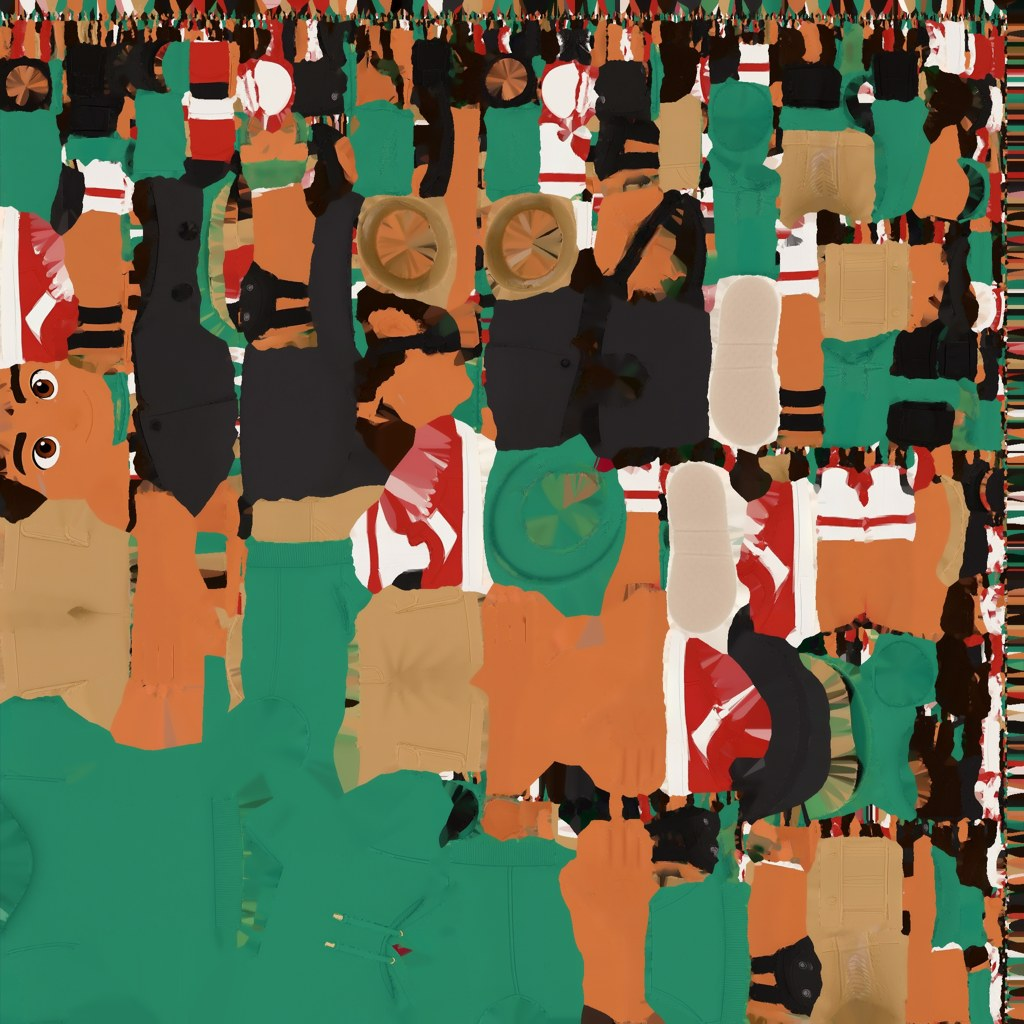
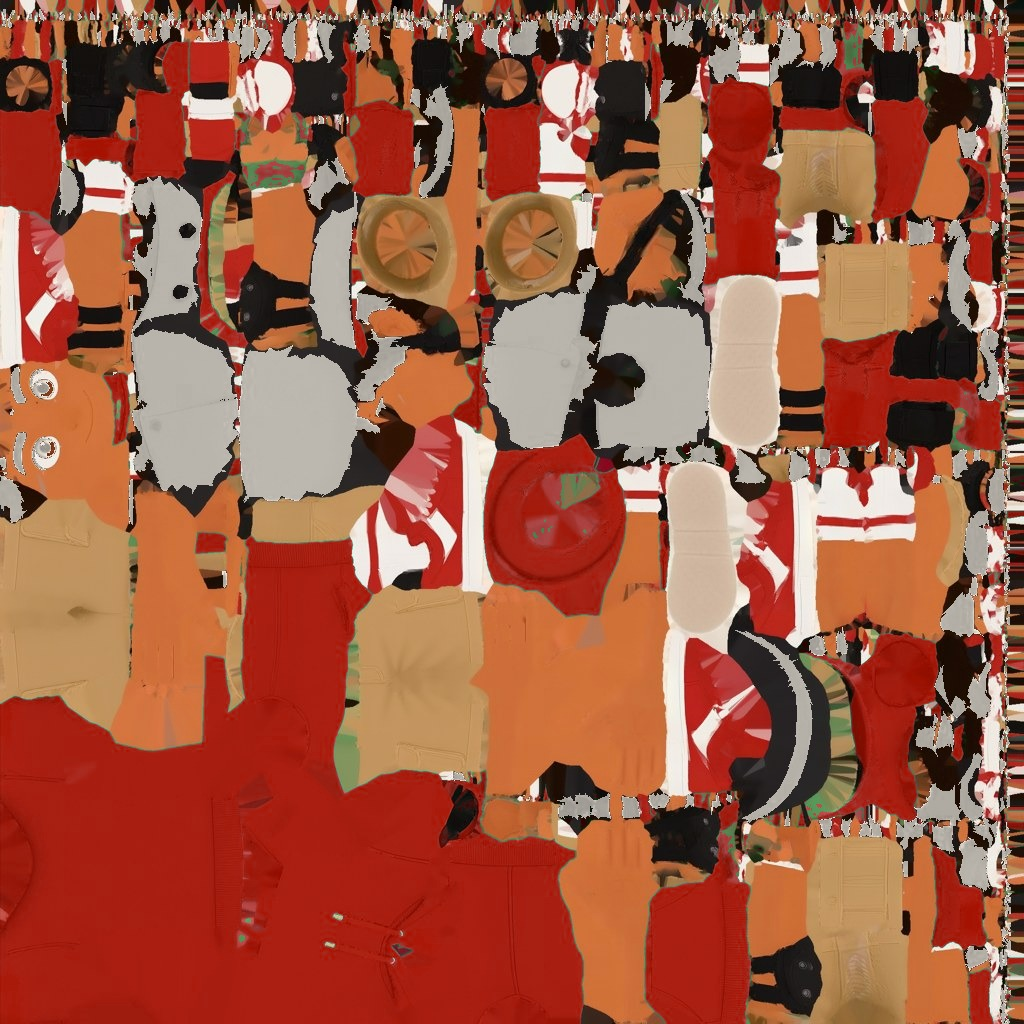
Hill Bomb: dusk-neon repalette, functional colour code, bigger character
PALETTE. Replaces the pastel sand-and-lilac sunset, on legibility grounds
before taste. Every element had sat inside a 62-point band at the very top
of a 0..255 luminance scale, and the sky was actually DARKER than the
playfield:

                    ground  marks  sky   marks-vs-ground  sky-vs-ground
    pastel sunset     205    248   188         43              -17
    dusk neon          46    193   129        147              +83

That negative number is the heart of it -- backdrop and playfield merged
rather than separating. It explains a run of problems already worked
around: speed lines invisible until widened and darkened, additive sparks
blowing out to white, guide stripes lost in the sand. It is also the wrong
register for 8-12s, who read pastel dusk as calm and pretty -- an odd thing
to feel while bombing a hill at 90 km/h.

The repalette paid for itself immediately: sparks and speed lines are back
on ADDITIVE blending. Both had been forced onto ordinary alpha because
additive only reads as glow over a dark background. They emit light now
instead of painting it.

Sky was repainted rather than recoloured -- edited from the existing matte
so the approved composition carried over exactly, with the ribbon roads
becoming glowing cyan neon and the clouds magenta-lit against indigo. Seam
re-healed (4.23 -> 1.37), and SKY_TOP/SKY_BOTTOM/FOG_COLOR are sampled from
the painting's own bands so the trough fades INTO the art.
[…]

diff --git a/HillBombSunsetRidge/src/data/constants.js b/HillBombSunsetRidge/src/data/constants.js
@@ -385,34 +385,106 @@ export const LAND_AMOUNT_PLAIN = 0.42; // a bare ollie or a small ramp pop
 // Per Amit's direct direction, this REPLACES the build doc's §5.2 orbiting
 // "trick swing" camera. No orbit, no roll, no FOV pumping -- a stable
 // over-the-shoulder rig that stays put. See camera/cameraRig.js's header.
-export const CAM_BACK = 4.1; // follow distance behind the rider
-export const CAM_HEIGHT = 1.85;
-export const CAM_SHOULDER = 0.85; // over-the-shoulder lateral offset (the Fortnite tell)
-export const CAM_LOOK_AHEAD = 11.0; // how far down-road the camera aims
+// --- LENS ---------------------------------------------------------------
+// Amit: a longer camera length, with the character always bigger in frame --
+// what the team called "more isometric feeling". That reading is right: a long
+// lens is exactly what produces it. Narrowing the FOV compresses depth, so the
+// trough walls and the matte painting flatten toward parallel instead of
+// racing to a vanishing point, and the rider stops being distorted by
+// wide-angle perspective.
+//
+// MEASURED before and after, since apparent size is 1/(distance x tan(fov/2))
+// and moving either one alone gets it wrong:
+//     before   fov 66 at speed, 5.69 away  ->  rider 32.5% of frame height,
+//              108.5 degrees horizontal -- practically fisheye
+//     after    fov 44 at speed, ~6.6 away  ->  rider ~45% of frame height,
+//              ~82 degrees horizontal
+// So the camera moves BACK and the rider still ends up much larger: that gap is
+// the lens doing the work rather than the dolly.
+// Pulled in for a further +20% on-screen character size. Done as DISTANCE, not
+// more lens: apparent size is 1/(distance x tan(fov/2)), and narrowing the FOV
+// again would drop the horizontal field below the 81.6 degrees the long-lens
+// pass already traded down to, costing reaction time on wide-placed props.
+// Distance is the free lever here; focal length is not.
+export const CAM_BACK = 3.80; // follow distance behind the rider
+// Lowered with the lens. How far below frame-centre the rider sits is set by
+// the height:distance ratio -- atan(CAM_HEIGHT / follow distance) -- and a
+// narrow FOV magnifies that same angle into a much larger slice of the frame.
+// At 1.85 he sat at -0.47 NDC and spilled off the bottom edge once he was big
+// enough to be worth looking at.
+// Lowered again with the closer camera. How far below frame-centre the rider
+// sits is atan(CAM_HEIGHT / distance), so pulling IN without dropping the
+// camera pushes him toward the bottom edge -- at 1.42 and this distance he
+// started clipping it. Dropping the height buys that margin back and costs no
+// on-screen size at all, which pure pull-back would.
+export const CAM_HEIGHT = 1.15;
+// Over-the-shoulder lateral offset (the Fortnite tell). Scaled down with the
+// lens: this is a fixed WORLD offset, so a narrower FOV turns the same 0.85
+// into a much larger share of the frame -- it pushed the rider to -0.38 NDC,
+// well left of centre, once the lens went long. 0.55 restores roughly the
+// original on-screen offset.
+export const CAM_SHOULDER = 0.55;
+// Pulled in with the lens. The rider sits below centre by however far the aim
+// point leads him, and a narrow FOV magnifies that same angular offset into a
+// much bigger slice of the frame -- at 11.0 he sank toward the bottom edge.
+export const CAM_LOOK_AHEAD = 7.0; // how far down-road the camera aims
 export const CAM_LOOK_HEIGHT = 1.35;
-export const CAM_LERP = 6.0; // base follow easing (per second)
+// Follow easing. Raised from 6.0, because at 6.0 the STEADY-STATE trail is
+// speed/CAM_LERP -- 5.8 units at 34.6 u/s, nearly as much again as the rig's
+// own 6.3 -- so the real follow distance was 12.1 and, worse, it GREW with
+// speed: the character shrank exactly when the game got fast. Amit asked for
+// him to be bigger in frame *always*, which means the distance has to be set by
+// the rig rather than by how far the lerp happens to be losing. At 14 the trail
+// is 2.5 units and roughly constant across the speeds the game actually uses.
+// Carve still adds its own lag via CAM_LAG_AT_FULL_CARVE, so the rider keeps
+// leading the frame through a turn.
+export const CAM_LERP = 14.0; // base follow easing (per second)
 export const CAM_LAG_AT_FULL_CARVE = 0.35; // eases slower at full carve so the
 // rider leads the frame through a turn -- without the camera leaving its rig.
-export const FOV_BASE = 58;
-export const FOV_AT_SPEED = 66; // only a slight breathe with speed, not a pump
-export const CAM_PULLBACK = 1.2; // modest extra distance at top speed
+export const FOV_BASE = 39;
+export const FOV_AT_SPEED = 44; // only a slight breathe with speed, not a pump
+export const CAM_PULLBACK = 0.8; // modest extra distance at top speed
 
 // --- world look (placeholder, deliberately flat) ---
 // NOTE: real illustrated Kolbo textures are a hard requirement for the actual
 // game (build doc §0's environment-art correction). This harness is explicitly
 // the "very basic environment" case -- flat colors here are a stand-in so the
 // comparison isolates the RIDER layer, and must not be taken as the art plan.
-export const SKY_TOP = 0xc3b2dc;
-export const SKY_BOTTOM = 0xf7d3bf;
-export const FOG_COLOR = 0xecd9dd;
+// --- PALETTE: DUSK NEON -----------------------------------------------------
+// Replaces the pastel sand-and-lilac sunset. That palette had a measured
+// problem, not just a taste one -- every element sat inside a 62-point band at
+// the very top of a 0..255 luminance scale, and the sky was actually DARKER
+// than the playfield:
+//
+//                       ground  markings  sky   marks-vs-ground  sky-vs-ground
+//     pastel sunset      205      248     188         43              -17
+//     dusk neon (this)    46      193     129        147               83
+//
+// The negative number is the heart of it: backdrop and playfield merged instead
+// of separating. Everything downstream suffered -- the speed lines were
+// invisible until widened and darkened, additive sparks blew out to white, the
+// guide stripes got lost in the sand. Flipping the playfield dark fixes all of
+// them at once and gives the VFX somewhere to glow.
+//
+// It is also simply the right register for the audience: 8-12 year olds read
+// pastel dusk as calm and pretty, which is a strange thing to feel while
+// bombing a hill at 90 km/h.
+//
+// The ground is 0x2f2763 rather than the 0x272052 of the prototype -- lifted a
+// step on purpose. The darker value tested better on a monitor but risks
+// crushing on a board-mounted screen in a lit room, and the lift costs almost
+// nothing in contrast while giving the eventual surface texture room to read.
+export const SKY_TOP = 0x160e47; // sampled from the matte's own top band
+export const SKY_BOTTOM = 0x401a5f; // ...and its bottom band
+export const FOG_COLOR = 0x5b3070; // the painting's horizon band: the trough now fades INTO the sky art rather than into an invented colour
 export const FOG_NEAR = 90;
 export const FOG_FAR = 340;
-export const TROUGH_COLOR = 0xdfcbaa; // warm sand wall (concept-02) // pale lilac concrete, pastel-sky palette
-export const TROUGH_FLOOR_COLOR = 0xfffaf0; // near-white dashed centre line // brighter stripe marking the fast line
-export const LIP_COLOR = 0x6f7a83; // DARK slate coping -- a value break against the pale wall // glowing coping at the top of the wall
-export const ROAD_COLOR = 0x6f6257;
-export const LINE_COLOR = 0xf2c14a;
-export const SHOULDER_COLOR = 0x9c8f6a;
+export const TROUGH_COLOR = 0x2f2763; // deep indigo playfield -- the value flip
+export const TROUGH_FLOOR_COLOR = 0x4ff0ff; // hot cyan dashed centre line
+export const LIP_COLOR = 0xff3ea5; // hot magenta coping: the loudest value break in frame
+export const ROAD_COLOR = 0x241d4e;
+export const LINE_COLOR = 0x4ff0ff;
+export const SHOULDER_COLOR = 0x4a3f8c;
 // Ground either side of the road. Must read as LAND, not sky: the first pass
 // used a pale sand (0xd8b98a) that was within a few percent of FOG_COLOR, so
 // wherever the road curved away the terrain beside it looked like empty sky and
@@ -421,8 +493,8 @@ export const SHOULDER_COLOR = 0x9c8f6a;
 // Placeholder sky until the phase-3 matte painting. Pastel, per the chosen
 // dreamlike sky-city direction -- the previous sage green read as GRASS above
 // the lips, which made the trough look like a ditch in a field.
-export const TERRAIN_COLOR = 0xefdce0;
-export const RAIL_COLOR = 0xbfb4a4;
+export const TERRAIN_COLOR = 0x3b2f72;
+export const RAIL_COLOR = 0x5cff9e;
 
 // --- funnels: the trough pinching to a throat and flaring open again ---
 // The set-piece from concept-01, and the cheapest possible proof that connected
@@ -471,7 +543,7 @@ export const GUIDE_STRIPES = [
   { theta: 0.62, halfWidth: 0.018 },
   { theta: 0.98, halfWidth: 0.018 },
 ];
-export const GUIDE_COLOR = 0xfdf8ee; // road markings, near-white
+export const GUIDE_COLOR = 0x76dcff; // road markings -- cyan on indigo
 
 // --- SPEED LINES -----------------------------------------------------------
 // Streaks rushing past the camera (entities/speedLines.js), driven by the SPEED
@@ -492,4 +564,12 @@ export const GUIDE_COLOR = 0xfdf8ee; // road markings, near-white
 // solid starburst that buried the rider and the road rather than as motion. The
 // point is to feel fast, not to obscure the thing you're steering.
 export const SPEEDLINE_MAX = 85;
-export const SPEEDLINE_COLOR = 0xfdf8ee; // same near-white as the road markings
+export const SPEEDLINE_COLOR = 0x9fe9ff; // pale cyan -- finally glows against a dark playfield
+
+// --- RIDER RIM LIGHT --------------------------------------------------------
+// A bright fresnel edge on the character so his silhouette separates from the
+// background regardless of palette. Cool white with a cyan bias, so it reads as
+// the scene's own neon bouncing off him rather than as an arbitrary outline.
+export const RIM_COLOR = 0xa8ecff;
+export const RIM_STRENGTH = 0.55;
+export const RIM_POWER = 2.2; // higher = tighter edge, less wash over the body

diff --git a/HillBombSunsetRidge/src/entities/rider.js b/HillBombSunsetRidge/src/entities/rider.js
@@ -47,6 +47,7 @@ import {
   LAND_HIP_BEND, LAND_KNEE_BEND, LAND_SPINE_CURL,
   GRIND_YAW, GRIND_HIP_BEND, GRIND_KNEE_BEND,
   GRIND_ARM_SPREAD, GRIND_ELBOW_OPEN, GRIND_PUSH_LOCKOUT,
+  RIM_COLOR, RIM_STRENGTH, RIM_POWER,
 } from '../data/constants.js';
 
 const RIDER_HEIGHT = 1.85;
@@ -158,8 +159,14 @@ export function createRider(scene, camera) {
   // demonstrates the build doc's §9.1 rule that things the rider physically
   // rides on are real geometry, not billboards.
   const board = new THREE.Group();
-  const deckMat = new THREE.MeshBasicMaterial({ color: 0x3b2f28 });
-  const wheelMat = new THREE.MeshBasicMaterial({ color: 0xe8d9c0 });
+  // Deck and wheels, lifted off near-black for the dusk-neon palette. The deck
+  // was 0x3b2f28 -- luminance 50 against a playfield at 46, so a broad flat
+  // plank directly under the rider was rendering as a hole in the frame. Warm
+  // maple reads as an actual skateboard and separates cleanly from the indigo
+  // without borrowing a hue that already means something (cyan paint, green
+  // rail, magenta boundary, violet launcher, yellow hazard).
+  const deckMat = new THREE.MeshBasicMaterial({ color: 0xd9a86a });
+  const wheelMat = new THREE.MeshBasicMaterial({ color: 0xfff0d8 });
   board.add(new THREE.Mesh(new THREE.BoxGeometry(0.62, 0.08, 2.15), deckMat));
   for (const dx of [-0.26, 0.26]) {
     for (const dz of [-0.72, 0.72]) {
@@ -320,6 +327,42 @@ export function createRider(scene, camera) {
             metalness: 0.35, roughness: 0.75,
           });
           const unlit = new THREE.MeshBasicMaterial({ map: base });
+          // RIM LIGHT. Recolouring the hoodie scarlet fixed the character's HUE
+          // separation from the indigo ground (87 -> 115 degrees) but actually
+          // cost value contrast: red is darker than the green it replaced, so
+          // the luminance gap fell from 63 to 44. Hue reads fine on a monitor;
+          // on a dim board-mounted screen value is the more reliable cue, and
+          // that is exactly where a character can get lost.
+          //
+          // A fresnel rim solves it independently of palette: a bright edge
+          // wherever the surface turns away from the viewer, so the silhouette
+          // separates from ANY background, including future ones. Injected into
+          // MeshBasicMaterial rather than switching to a lit material, because
+          // the whole art direction is unlit and a real light would flatten the
+          // hand-painted texture.
+          //
+          // three only computes normals in the basic shader when USE_ENVMAP or
+          // USE_SKINNING is defined -- this rig is skinned, so transformedNormal
+          // is genuinely available here. It would NOT be on an unskinned mesh.
+          unlit.onBeforeCompile = (shader) => {
+            shader.uniforms.uRimColor = { value: new THREE.Color(RIM_COLOR) };
+            shader.uniforms.uRimStrength = { value: RIM_STRENGTH };
+            shader.uniforms.uRimPower = { value: RIM_POWER };
+            shader.vertexShader = shader.vertexShader
+              .replace('void main() {', 'varying vec3 vRimN;\nvarying vec3 vRimV;\nvoid main() {')
+              .replace('#include <project_vertex>',
+                '#include <project_vertex>\n\tvRimN = transformedNormal;\n\tvRimV = -mvPosition.xyz;');
+            shader.fragmentShader = shader.fragmentShader
+              .replace('void main() {',
+                'uniform vec3 uRimColor;\nuniform float uRimStrength;\nuniform float uRimPower;\n'
+                + 'varying vec3 vRimN;\nvarying vec3 vRimV;\nvoid main() {')
+              .replace('#include <dithering_fragment>',
+                '#include <dithering_fragment>\n'
+                // abs() so back-facing normals rim too -- without it, whichever
+                // side of him faces away from the camera loses its edge.
+                + '\tfloat rim = pow(1.0 - abs(dot(normalize(vRimN), normalize(vRimV))), uRimPower);\n'
+                + '\tgl_FragColor.rgb += uRimColor * rim * uRimStrength;');
+          };
           rigLitMats.push(lit);
           rigUnlitMats.push(unlit);
           n.material = unlit;

diff --git a/HillBombSunsetRidge/src/data/propTypes.js b/HillBombSunsetRidge/src/data/propTypes.js
@@ -22,16 +22,16 @@ export const PROP_TYPES = {
     kind: 'launch',
     // A wedge: low at the near edge, rising toward the rider's direction.
     size: { w: 4.2, h: 0.95, l: 3.4 },
-    colour: 0xb2763f,
-    accent: 0x8a5a2e,
+    colour: 0x6c3fd8,
+    accent: 0x4223a2,
     launch: { power: 1.0, points: 120, profile: 'wedge' },
     label: 'KICKER',
   },
   bigKicker: {
     kind: 'launch',
     size: { w: 5.6, h: 1.6, l: 5.0 },
-    colour: 0xc08347,
-    accent: 0x92602f,
+    colour: 0x8a4fe8,
+    accent: 0x5427b6,
     launch: { power: 1.5, points: 260, profile: 'wedge' },
     label: 'BIG AIR',
   },
@@ -40,34 +40,40 @@ export const PROP_TYPES = {
     // Wide, shallow quarter-pipe style bank -- a gentler launch, and forgiving
     // because it's wide enough that you don't have to aim.
     size: { w: 9.0, h: 1.2, l: 6.0 },
-    colour: 0x9aa3ad,
-    accent: 0x7c848d,
+    colour: 0x35538f,
+    accent: 0x27406f,
     launch: { power: 1.2, points: 150, profile: 'hump' },
     label: 'BANK',
   },
 
   // --- grindables --------------------------------------------------------
+  // SPRING GREEN, and deliberately its own hue. These were cyan -- the exact
+  // colour of the painted guide stripes -- so a solid object you ride and a
+  // marking you're meant to ignore looked identical at a glance. Hue here
+  // carries FUNCTION, not mood: indigo ground, cyan paint, magenta boundary,
+  // violet launcher, yellow hazard, green grindable. Green also reads as
+  // "positive, go for it", which is what a rail is.
   rail: {
     kind: 'grind',
     size: { w: 0.16, h: 0.52, l: 16 },
-    colour: 0xd9d2c4,
-    accent: 0x8e887c,
+    colour: 0x5cff9e,
+    accent: 0x1f8f52,
     grind: { pointsPerSecond: 260, catchWidth: 1.5 },
     label: 'RAIL',
   },
   longRail: {
     kind: 'grind',
     size: { w: 0.16, h: 0.58, l: 28 },
-    colour: 0xe4dccd,
-    accent: 0x8e887c,
+    colour: 0x5cff9e,
+    accent: 0x1f8f52,
     grind: { pointsPerSecond: 320, catchWidth: 1.5 },
     label: 'LONG RAIL',
   },
   ledge: {
     kind: 'grind',
     size: { w: 1.5, h: 0.62, l: 14 },
-    colour: 0xbfb3a0,
-    accent: 0x958a79,
+    colour: 0x4ae08a,
+    accent: 0x1a7a48,
     grind: { pointsPerSecond: 220, catchWidth: 1.9 },
     label: 'LEDGE',
   },
@@ -76,24 +82,24 @@ export const PROP_TYPES = {
   cone: {
     kind: 'hazard',
     size: { w: 0.55, h: 0.8, l: 0.55 },
-    colour: 0xf06a2a,
-    accent: 0xf4f1e8,
+    colour: 0xffd23f,
+    accent: 0xfff6c4,
     hazard: { wobble: 9, scrub: 0.14 },
     label: 'CONE',
   },
   pothole: {
     kind: 'hazard',
     size: { w: 2.2, h: 0.05, l: 2.6 },
-    colour: 0x2f2a26,
-    accent: 0x2f2a26,
+    colour: 0x1b1640,
+    accent: 0x1b1640,
     hazard: { wobble: 14, scrub: 0.2 },
     label: 'POTHOLE',
   },
   roadwork: {
     kind: 'hazard',
     size: { w: 2.6, h: 1.0, l: 0.5 },
-    colour: 0xf0a52a,
-    accent: 0x2f2a26,
+    colour: 0xffd23f,
+    accent: 0x1b1640,
     hazard: { wobble: 16, scrub: 0.24 },
     label: 'BARRIER',
   },
@@ -101,7 +107,7 @@ export const PROP_TYPES = {
   // Only the lip lamps remain as scenery. Palms, bushes and buildings were
   // removed: they were flat-road furniture and looked absurd sprouting from the
   // rim of a half-pipe in the sky.
-  lamp: { kind: 'scenery', size: { w: 0.24, h: 6.5, l: 0.24 }, colour: 0x8d86a8, accent: 0xfff0d0 },
+  lamp: { kind: 'scenery', size: { w: 0.24, h: 6.5, l: 0.24 }, colour: 0x5b4f9e, accent: 0xd8f4ff },
 };
 
 // ---------------------------------------------------------------------------

diff --git a/HillBombSunsetRidge/src/entities/sparks.js b/HillBombSunsetRidge/src/entities/sparks.js
@@ -19,9 +19,10 @@
 //     blending plus darkening toward black -- which is exactly what the first
 //     version did, and it failed for a reason specific to THIS game: additive
 //     blending only reads as "glow" over a DARK background, and Hill Bomb's
-//     palette is pale sand and lilac. Every spark saturated straight to white.
-//     So: ordinary alpha blending, a real per-particle alpha attribute, and
-//     saturated orange that stays orange against a light ground.
+//     palette WAS pale sand and lilac -- every spark saturated straight to
+//     white. The per-particle alpha attribute below is the durable half of that
+//     fix and stays. The blend mode is now back to additive, because the
+//     dusk-neon repalette made the playfield dark and additive correct again.
 //
 // Everything is world-space on purpose. Parenting the sparks to the rider would
 // drag them along with him and make the board look like it's carrying a flare;
@@ -80,6 +81,12 @@ export function createSparks(scene) {
     `,
     vertexColors: true,
     transparent: true,
+    // ADDITIVE again -- see the header note. The original version used this and
+    // failed, but for a reason that no longer holds: additive reads as glow
+    // only over a DARK background, and the old pastel sand blew every ember out
+    // to white. On the dusk-neon playfield it does exactly what it should, and
+    // hot sparks off a rail are the single best thing to have glowing.
+    blending: THREE.AdditiveBlending,
     depthWrite: false, // never let a spark punch a hole in what's behind it
     depthTest: true,
   });

diff --git a/HillBombSunsetRidge/src/entities/speedLines.js b/HillBombSunsetRidge/src/entities/speedLines.js
@@ -103,6 +103,12 @@ export function createSpeedLines(scene) {
       void main() { gl_FragColor = vec4(uColor, vAlpha); }
     `,
     transparent: true,
+    // ADDITIVE, now that the playfield is dark. This was ordinary alpha
+    // blending under the pastel palette for a specific reason -- additive only
+    // reads as glow over a DARK background, and against pale sand every streak
+    // saturated straight to white. The dusk-neon palette is what makes the
+    // correct blend mode usable, so the streaks read as light rather than paint.
+    blending: THREE.AdditiveBlending,
     side: THREE.DoubleSide,
     // Screen-space effect in spirit: it should never be occluded by the trough
     // wall it happens to be passing through, and never punch a hole in
